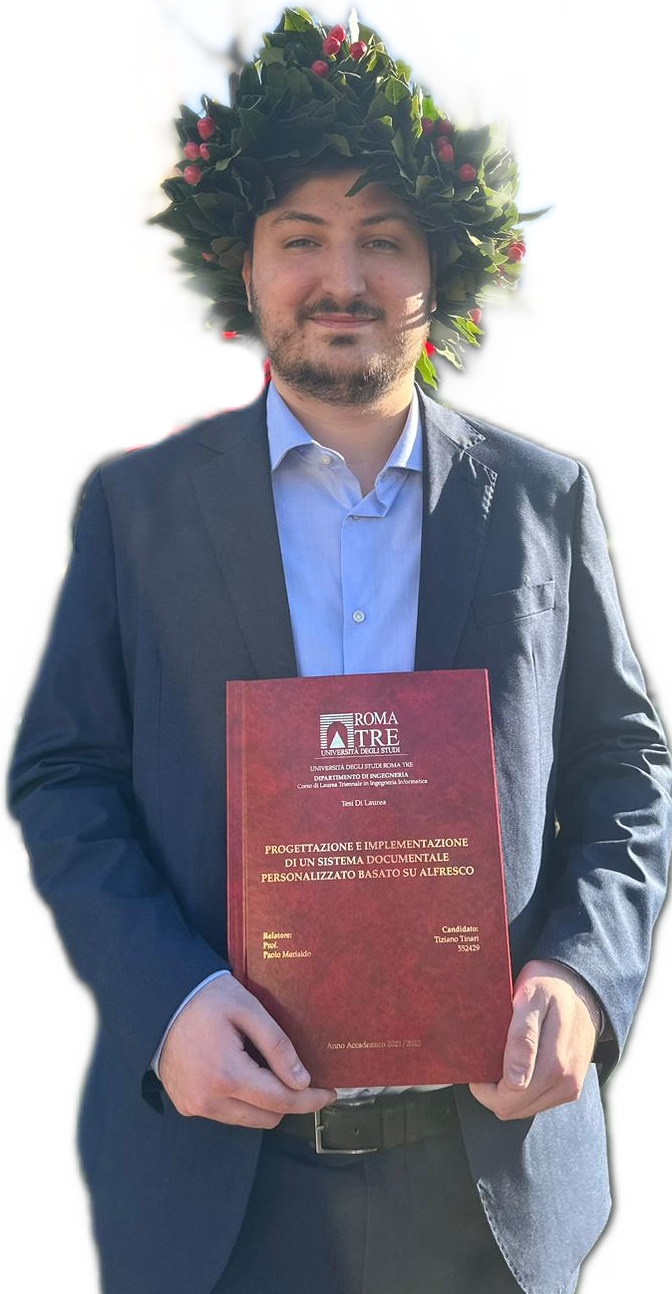
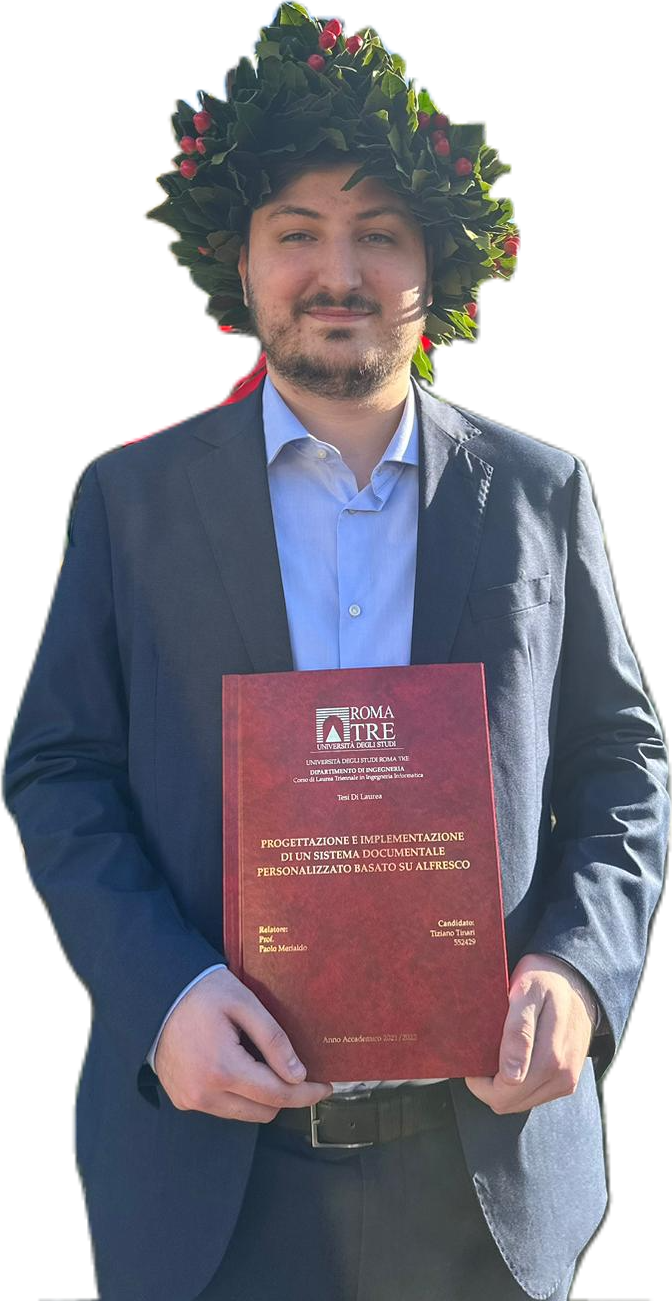
header linear gradient + changed .my-image size

diff --git a/style/style.css b/style/style.css
@@ -70,6 +70,7 @@ header {
     height: var(--header-height);
     position: fixed;
     top: 80px;
+    user-select: none;
 }
 
 #flex-container {
@@ -88,7 +89,7 @@ header {
     align-items: center;
     height: 100%;
     width: 60%;
-    background-color: rgb(20, 77, 142);
+    background: linear-gradient(to right, #b21f1f, #1a2a6c);
 }
 
 .basic-info {
@@ -119,12 +120,13 @@ header {
     align-items: end;
     height: 100%;
     width: 40%;
-    background-color: rgb(28, 45, 100);
+    background: linear-gradient(to right, #1a2a6c, #111b43);;
 }
 
 .my-image {
-    width: 350px;
-    height: auto;
+    position: relative;
+    width: 500px;
+    top: 300px;
     z-index: 1;
 }
 
@@ -144,7 +146,7 @@ header {
 
 #down-arrow img {
     height: 30px;
-    animation: MoveUpDown 1s linear infinite;
+    animation: MoveUpDown 1.25s ease-in-out infinite;
 }
 
 @keyframes MoveUpDown {
